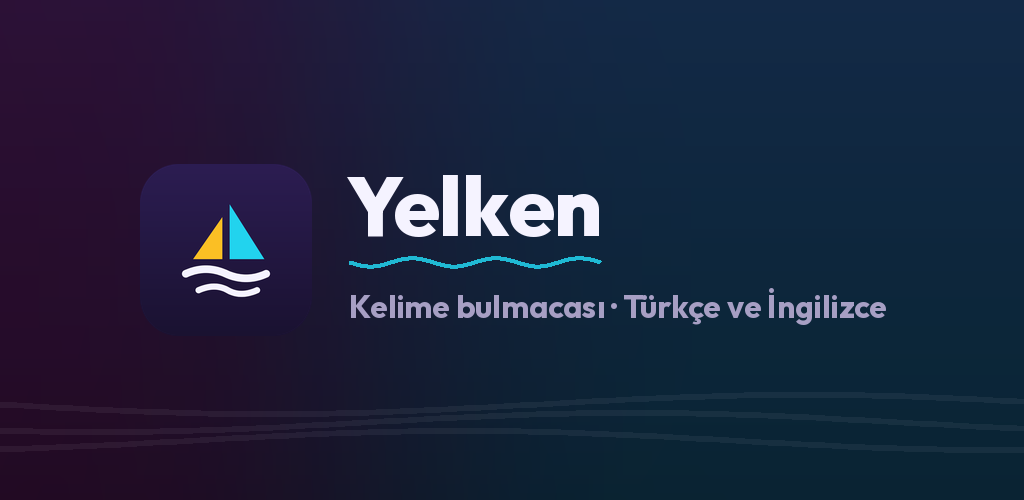
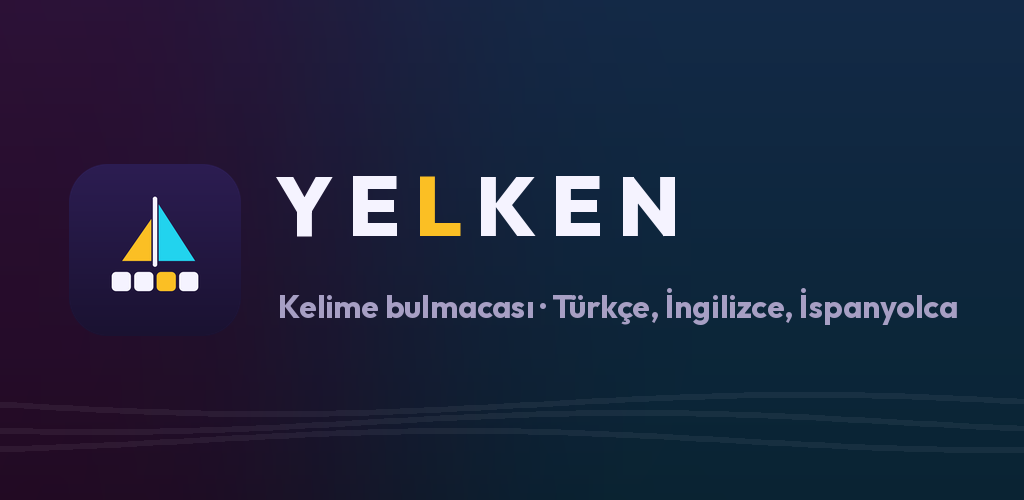
feat: BeyondGuard açıklamaları düzeltildi, Yelken görselleri ve dil bilgisi güncellendi, Artifin Teftiş eklendi
BeyondGuard/BeyondChat ve Hakkımda'daki deneyim açıklaması, ürünün
gerçek işlevini (LLM'e giden ve LLM'den dönen trafiği denetleyen kurumsal
yapay zeka güvenlik kontrol paneli, beyondguard.ai) yansıtacak şekilde
yeniden yazıldı.

Yelken ekran görüntüleri yelken deposundaki güncel mağaza görselleriyle
değiştirildi (Gemi ve Gemici ekranları da eklendi); dil/kelime sayısı
metinleri Türkçe, İngilizce ve İspanyolca'yı kapsayacak şekilde
güncellendi.

Carbon Consulting listesine en üste Artifin Teftiş AI App UI/UX eklendi.

Changed region(s): [[0.0625, 0.33, 0.9375, 0.66], [0.2188, 0.33, 0.6562, 0.48], [0.3438, 0.51, 0.5938, 0.54]]

diff --git a/app/yelken/page.tsx b/app/yelken/page.tsx
@@ -60,6 +60,8 @@ const shots = [
   { src: '/yelken/crossword.png', title: 'Kare Bulmaca', desc: 'İpuçlarından kesişen kelimeleri yerleştir.' },
   { src: '/yelken/wordhunt.png', title: 'Kelime Avı', desc: 'Izgarada gizlenmiş kelimeleri parmağınla çiz.' },
   { src: '/yelken/voyage.png', title: 'Sefer', desc: 'Altı liman, üç erzak. Kaybedilebilen bir tur.' },
+  { src: '/yelken/ship.png', title: 'Gemi', desc: 'Oynadıkça büyüyen, kalıcı kademelerle gelişen bir yelkenli.' },
+  { src: '/yelken/sailor.png', title: 'Gemici', desc: 'Rütbeni taşı, kazandığın kıyafetlerle kendine göre giydir.' },
   { src: '/yelken/collection.png', title: 'Koleksiyon', desc: 'Rütbe ve rozetlerle ilerlemeni takip et.' },
 ]
 
@@ -153,14 +155,14 @@ export default function YelkenPage() {
         <div className="container mx-auto px-4 md:px-8 max-w-5xl">
           <h2 className="text-sm uppercase tracking-widest text-gray-500 mb-8">Ekranlar</h2>
           {/* Dar ekranda yatay kaydırma: telefon görselleri küçültülünce okunmuyor. */}
-          <div className="flex gap-6 overflow-x-auto pb-4 -mx-4 px-4 md:mx-0 md:px-0 md:grid md:grid-cols-4">
+          <div className="flex gap-6 overflow-x-auto pb-4 -mx-4 px-4 md:mx-0 md:px-0 md:grid md:grid-cols-3">
             {shots.map(shot => (
               <figure key={shot.src} className="shrink-0 w-52 md:w-auto">
                 <Image
                   src={shot.src}
                   alt={`Yelken — ${shot.title}`}
-                  width={560}
-                  height={1132}
+                  width={1080}
+                  height={1920}
                   className="rounded-xl border border-white/10 shadow-xl shadow-black/40 w-full h-auto"
                 />
                 <figcaption className="mt-3">

diff --git a/app/page.tsx b/app/page.tsx
@@ -97,8 +97,8 @@ export default function Home() {
               </div>
               <p className="text-gray-300 leading-relaxed max-w-xl">
                 Kendi ürünüm: bir kelime bulmacası ve istersen bir dil öğretmeni. Dört oyun modu,
-                aralıklı tekrar programı, 3.500 kelimelik Türkçe ve İngilizce dağarcık. Tamamen
-                çevrimdışı çalışıyor.
+                aralıklı tekrar programı, 6.000&apos;den fazla kelimelik Türkçe, İngilizce ve
+                İspanyolca dağarcık. Tamamen çevrimdışı çalışıyor.
               </p>
               <div className="flex flex-wrap gap-2 mt-5">
                 {['React Native', 'Expo', 'TypeScript', 'SQLite'].map(tech => (
@@ -118,15 +118,15 @@ export default function Home() {
               <Image
                 src="/yelken/crossword.png"
                 alt="Yelken — kare bulmaca ekranı"
-                width={560}
-                height={1132}
+                width={1080}
+                height={1920}
                 className="w-32 md:w-36 h-auto rounded-t-xl border border-white/10 shadow-2xl translate-y-4 group-hover:translate-y-2 transition-transform"
               />
               <Image
                 src="/yelken/wordhunt.png"
                 alt="Yelken — kelime avı ekranı"
-                width={560}
-                height={1132}
+                width={1080}
+                height={1920}
                 className="w-32 md:w-36 h-auto rounded-t-xl border border-white/10 shadow-2xl translate-y-10 group-hover:translate-y-7 transition-transform"
               />
             </div>

diff --git a/app/about/page.tsx b/app/about/page.tsx
@@ -11,7 +11,7 @@ const experiences = [
         company: 'Beyond Guard',
         position: 'Frontend Developer',
         date: '2024 - Devam',
-        desc: 'Siber güvenlik odaklı ürünün arayüzünü React ve Next.js ile geliştiriyorum, UI/UX tasarımlarını uyguluyorum.',
+        desc: 'Kurumsal yapay zeka güvenliği platformunun (beyondguard.ai) arayüzünü geliştiriyorum: LLM\'e giden prompt/RAG/ajan çağrıları ve LLM\'den dönen model çıktıları için dashboard, canlı izleme ve log ekranlarını React ve Next.js ile kodluyorum.',
         icon: <Briefcase size={28} className="text-cyan-400" />,
     },
     {
